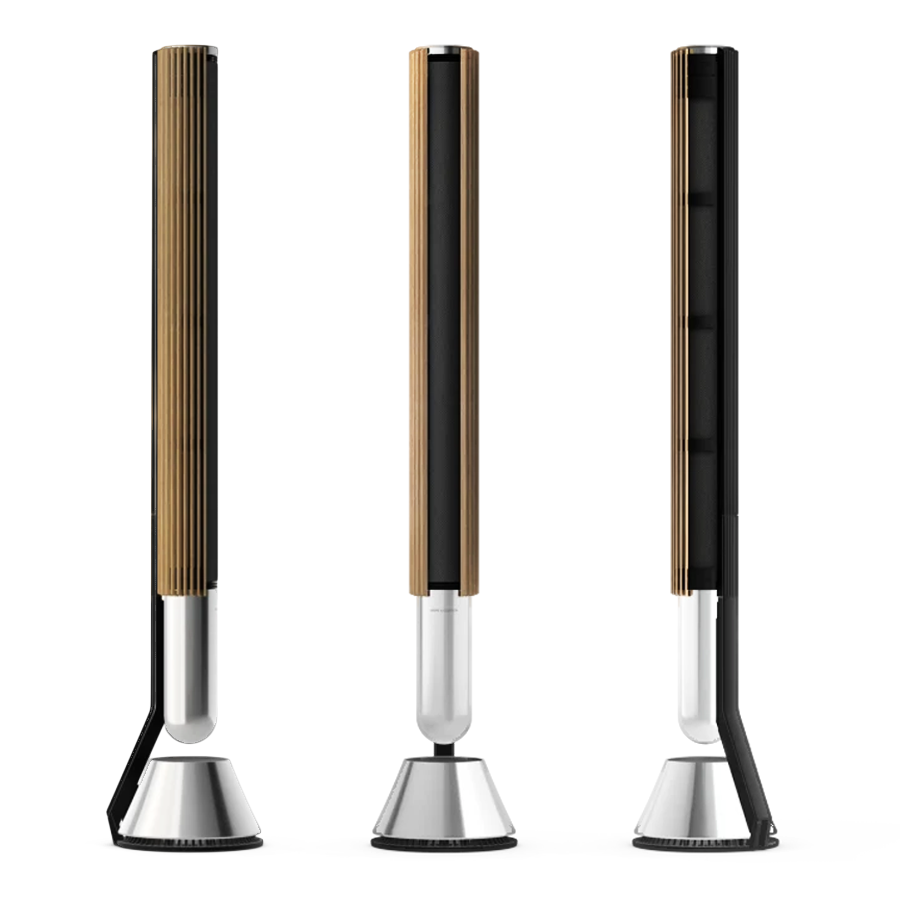
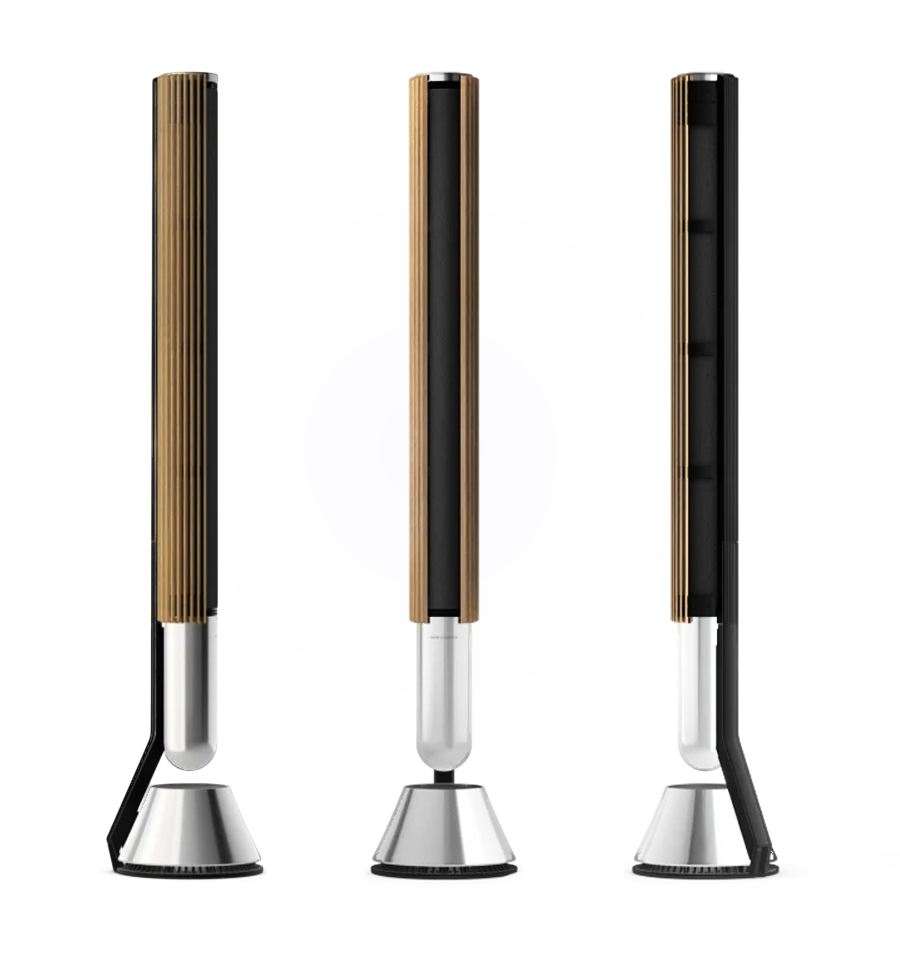
Prueba de edicion en imagenes
agregar brillo de fondo en imagenes

diff --git a/index.html b/index.html
@@ -358,7 +358,7 @@
                     </div>
                 </div>
                 <div class="col-lg-4 wow fadeIn" data-wow-delay="0.1s">
-                    <img class="img-tec-feature img-fluid animated pulse infinite" src="img/img-3.png">
+                    <img class="img-tec-feature img-fluid animated pulse infinite" src="img/img-3-hd.png">
                 </div>
                 <div class="col-lg-4 wow fadeIn" data-wow-delay="0.5s">
                     <div class="row g-5">

diff --git a/css/style.css b/css/style.css
@@ -177,6 +177,10 @@ img.animated.pulse {
     padding-bottom: 6rem;
     overflow: hidden;
     height: 100vh;
+
+    background-image: url(../img/shinning.png);
+    background-position: center;
+
 }
 
 h1 {
